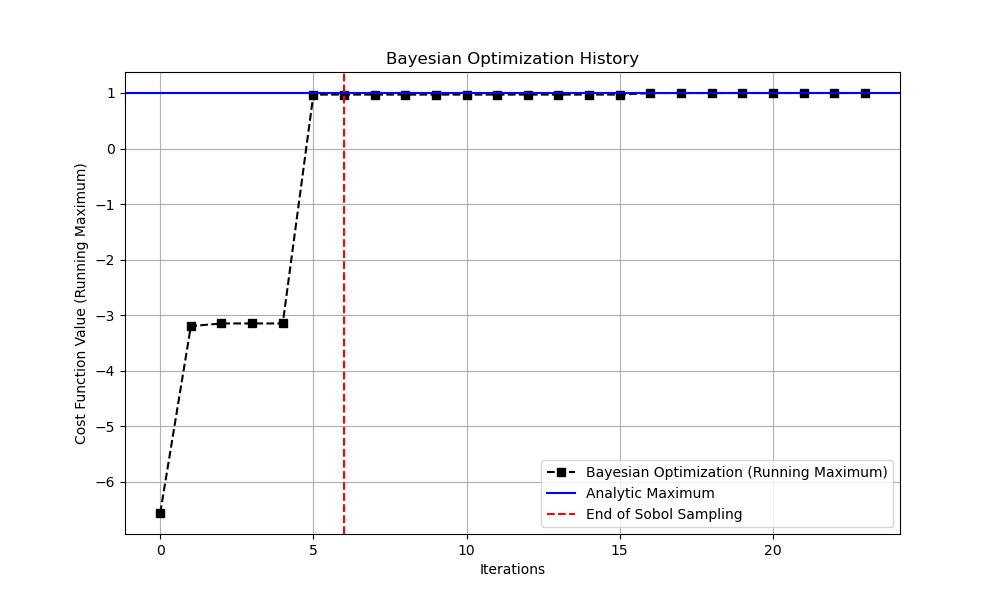
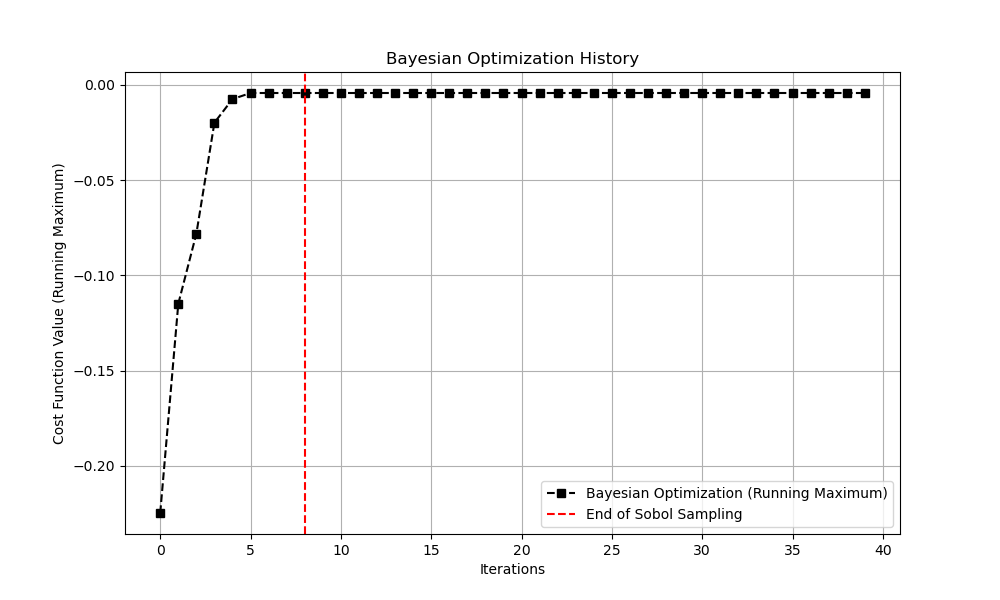
Cleaned up some stuff

diff --git a/src/geko_bayesopt/objective/objective.py b/src/geko_bayesopt/objective/objective.py
@@ -1,12 +1,8 @@
 import numpy as np
 
 from geko_bayesopt.ansys.periodic_hill.runner import run_geko_trial
-from geko_bayesopt.objective.GEDCP import gedcp
 from geko_bayesopt.objective.integral_and_field_error import FieldErrorCalculator
 from geko_bayesopt.utils.periodic_hills_loader import getSimulationData
-
-import os
-import matplotlib.pyplot as plt 
 
 
 GEKO_DEFAULTS = {
@@ -48,7 +44,7 @@ def objective_geko(
         geko_params=geko_params,
         session=session,
         base_case=base_case,
-        reinitialize=False,
+        reinitialize=True,
     )
     sim_coords, sim_fields = getSimulationData(outputs["ascii"])
 
@@ -88,6 +84,6 @@ def objective_geko(
     if integral_error is not None:
         total_error += lambdas["integral"] * integral_error
 
-    score = -total_error * (1.0 + lambdas["preference"] * preference_error)
+    score = -1.0 * total_error * (1.0 + lambdas["preference"] * preference_error)
 
     return float(score)

diff --git a/src/geko_bayesopt/optimization/SanityCheck.py b/src/geko_bayesopt/optimization/SanityCheck.py
@@ -5,7 +5,7 @@ from geko_bayesopt.ansys.run import CASE, MESH, DATA_DIR
 from geko_bayesopt.ansys.periodic_hill.runner import open_session, run_case
 from geko_bayesopt.objective.integral_and_field_error import FieldErrorCalculator
 from geko_bayesopt.utils.load_dns_periodic_hill import getData
-from geko_bayesopt.utils.utilities import objective_geko
+from geko_bayesopt.objective.objective import objective_geko
 from geko_bayesopt.utils.utilities import get_sobol_sampling_points
 from geko_bayesopt.utils.periodic_hills_loader import getSimulationData
 from geko_bayesopt.utils.utilities import plot_and_save_BayOpt
@@ -139,7 +139,7 @@ print(f"Best geko_csep: {best_csep:.6f}")
 print(f"Best score:     {best_score:.8f}")
 
 # Should not produce errors, see successfull implementation in visualization_test.py
-Do_you_have_balls_to_plot = False
+Do_you_have_balls_to_plot = True
 
 if Do_you_have_balls_to_plot:
     plot_and_save_BayOpt(history,

diff --git a/src/geko_bayesopt/optimization/BayOpt.py b/src/geko_bayesopt/optimization/BayOpt.py
@@ -5,7 +5,7 @@ from geko_bayesopt.ansys.run import CASE, MESH, DATA_DIR
 from geko_bayesopt.ansys.periodic_hill.runner import open_session, run_case
 from geko_bayesopt.objective.integral_and_field_error import FieldErrorCalculator
 from geko_bayesopt.utils.load_dns_periodic_hill import getData
-from geko_bayesopt.utils.utilities import objective_geko
+from geko_bayesopt.objective.objective import objective_geko
 from geko_bayesopt.utils.utilities import get_sobol_sampling_points
 from geko_bayesopt.utils.periodic_hills_loader import getSimulationData
 from geko_bayesopt.utils.utilities import plot_and_save_BayOpt

diff --git a/src/geko_bayesopt/utils/utilities.py b/src/geko_bayesopt/utils/utilities.py
@@ -3,7 +3,6 @@ import matplotlib.pyplot as plt
 import numpy as np
 
 from geko_bayesopt.ansys.periodic_hill.runner import run_geko_trial
-from geko_bayesopt.objective.GEDCP import gedcp
 from geko_bayesopt.objective.integral_and_field_error import FieldErrorCalculator
 from geko_bayesopt.utils.periodic_hills_loader import getSimulationData
 